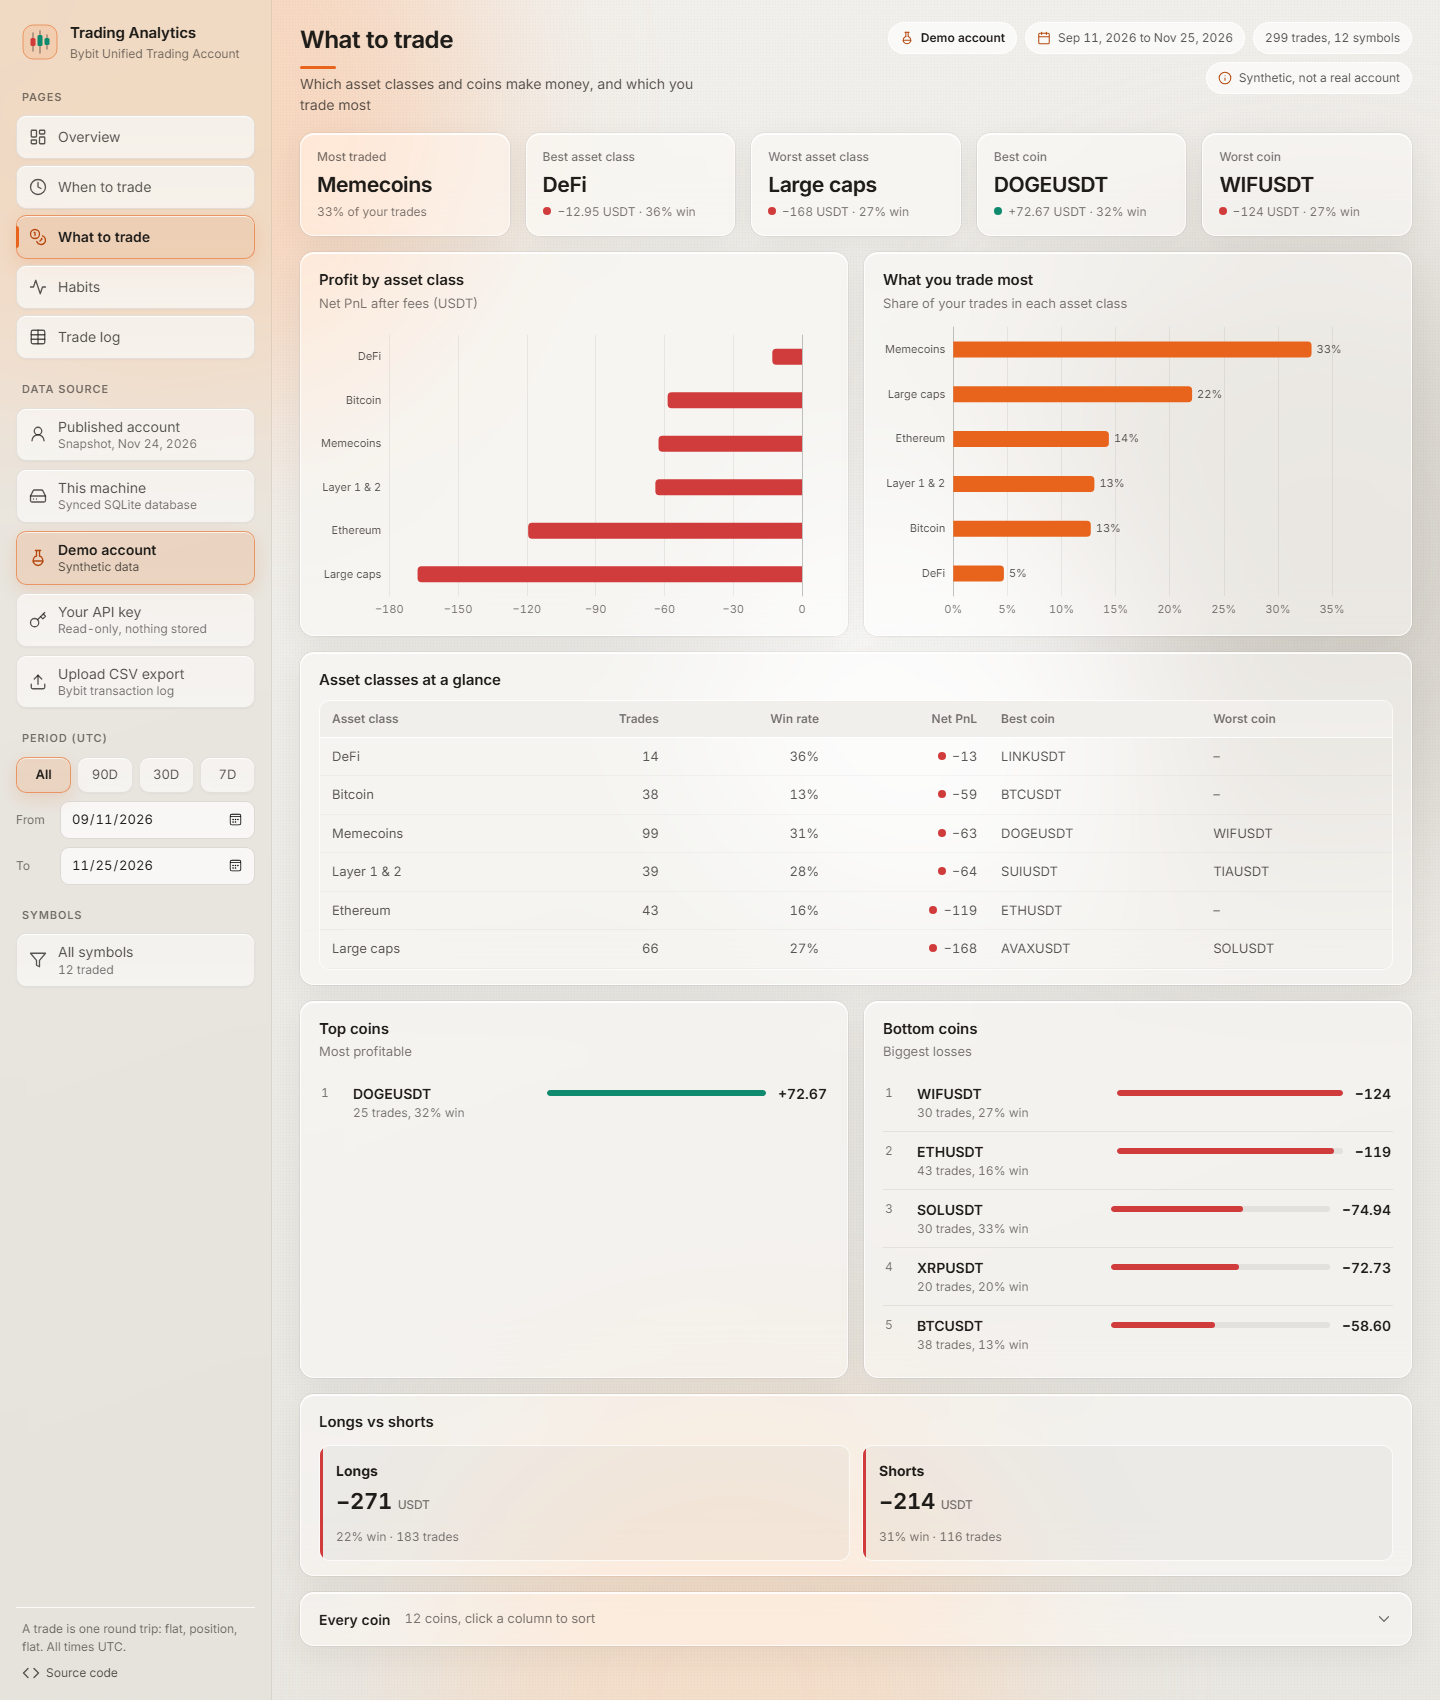
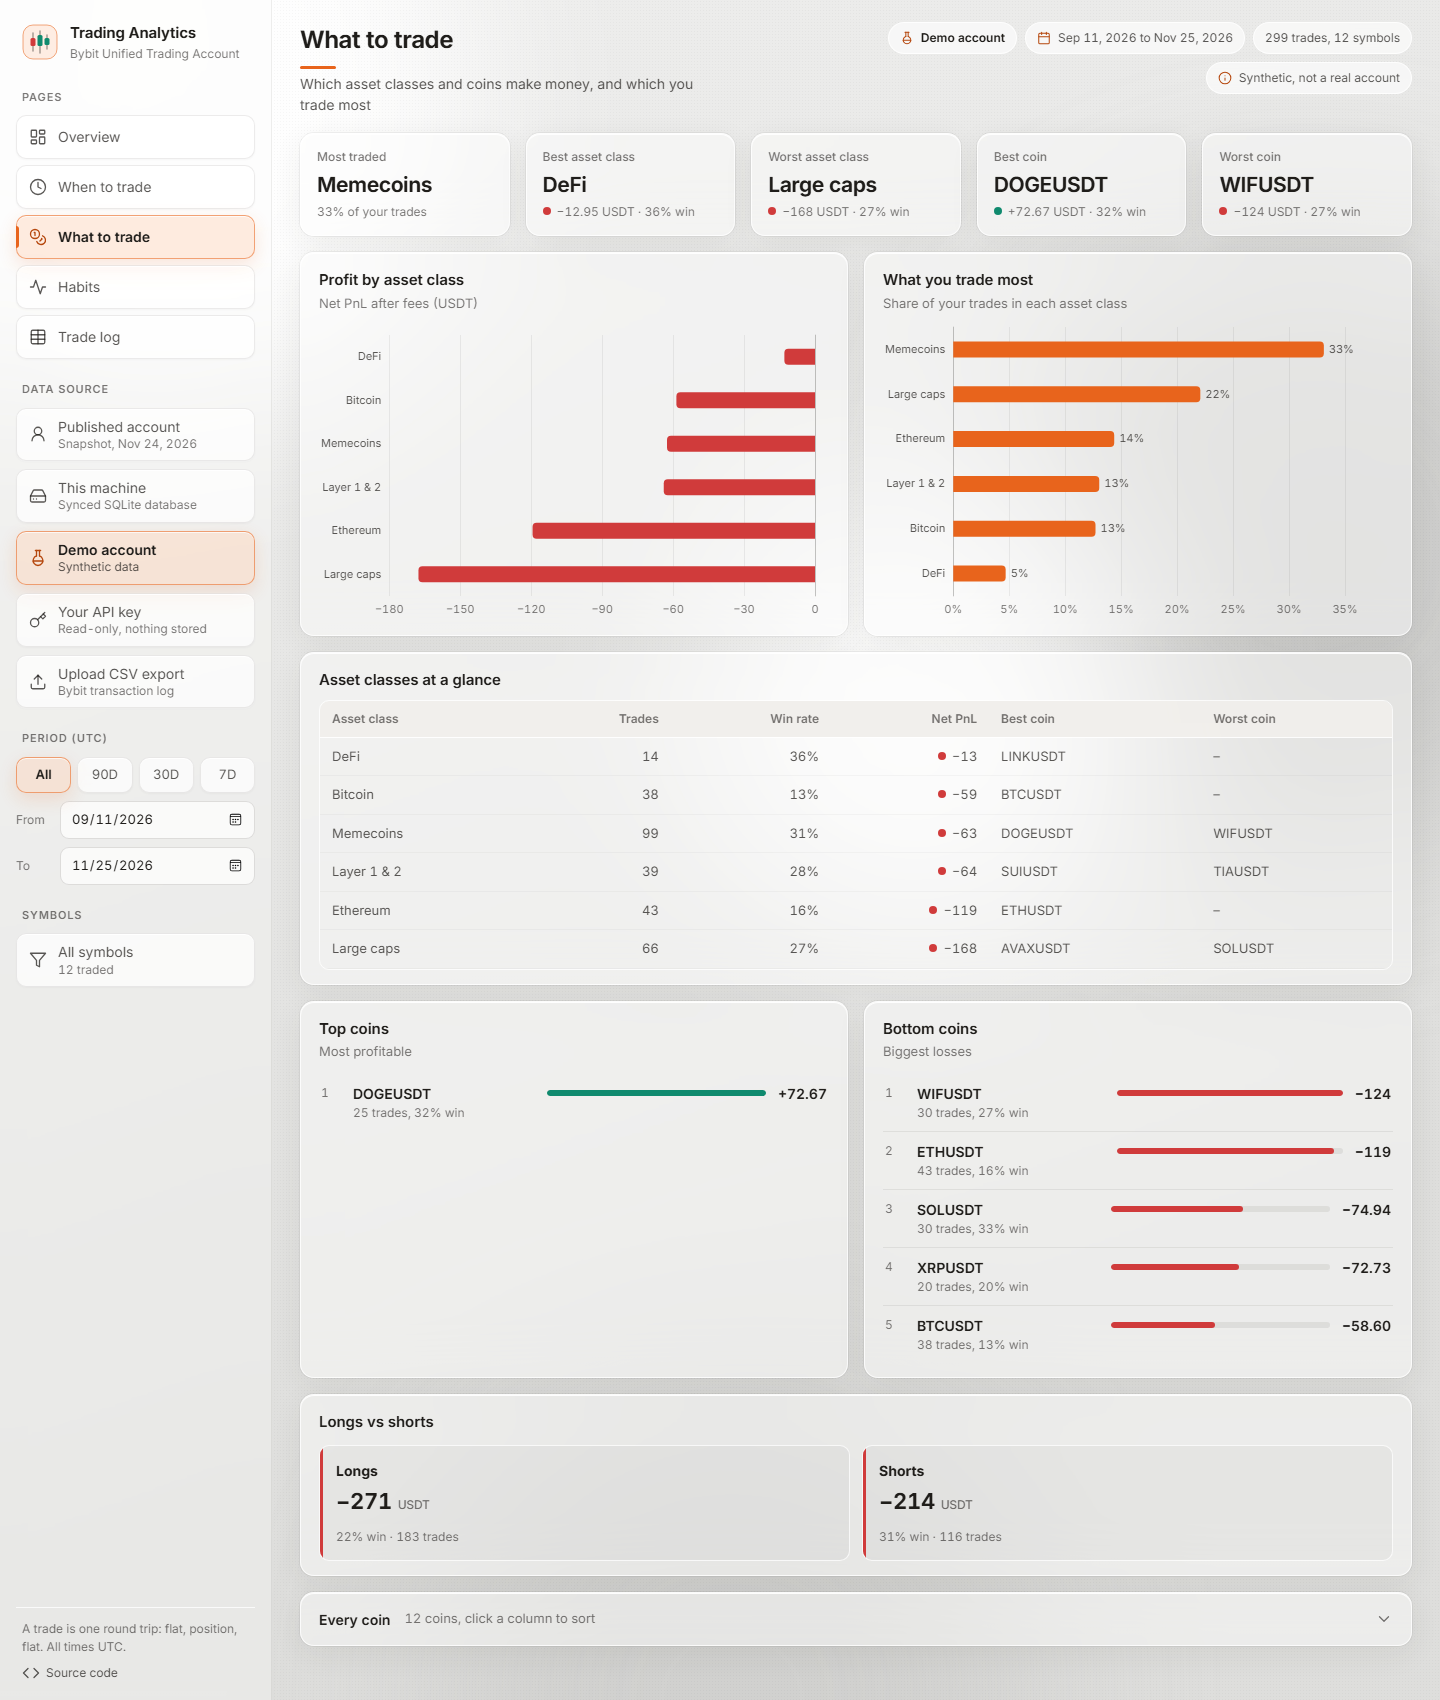
Colourless frosted-glass backdrop
Replace the tinted background glows with neutral white and grey ones, so the
glass panels blur a colourless backdrop. Orange stays as the accent only.

diff --git a/public/assets/styles.css b/public/assets/styles.css
@@ -2,14 +2,14 @@
 :root {
   color-scheme: light;
   /* surfaces: off-white page, light-grey frosted glass */
-  --bg-0: #f3f1ed;
-  --bg-1: #e9e7e2;
+  --bg-0: #efefee;
+  --bg-1: #dededc;
   --glass: rgba(255, 255, 255, 0.46);
   --glass-2: rgba(255, 255, 255, 0.62);
   --glass-border: rgba(255, 255, 255, 0.78);
   --glass-border-2: rgba(40, 36, 30, 0.14);
   --glass-highlight: inset 0 1px 0 rgba(255, 255, 255, 0.9), 0 0 0 1px rgba(40, 36, 30, 0.06);
-  --pane: rgba(226, 223, 218, 0.5);
+  --pane: rgba(255, 255, 255, 0.32);
   --sub: rgba(40, 36, 30, 0.035);
   --line: rgba(40, 36, 30, 0.08);
   /* option-pane buttons: same glass, denser than the pane */
@@ -64,10 +64,10 @@ svg.i { width: 18px; height: 18px; flex: none; fill: none; stroke: currentColor;
 /* ---------------------------------------------------------- backdrop */
 .backdrop { position: fixed; inset: 0; z-index: -1; overflow: hidden; pointer-events: none; }
 .orb { position: absolute; border-radius: 50%; filter: blur(90px); }
-.orb.o1 { width: 640px; height: 640px; left: -160px; top: -220px; background: #ffb07a; opacity: 0.38; }
-.orb.o2 { width: 620px; height: 620px; right: -180px; top: 14%; background: #cfcac2; opacity: 0.7; }
-.orb.o3 { width: 600px; height: 600px; left: 30%; bottom: -300px; background: #ffd2ad; opacity: 0.45; }
-.orb.o4 { width: 460px; height: 460px; left: 48%; top: 28%; background: #ffffff; opacity: 0.8; }
+.orb.o1 { width: 640px; height: 640px; left: -160px; top: -220px; background: #ffffff; opacity: 0.95; }
+.orb.o2 { width: 620px; height: 620px; right: -180px; top: 14%; background: #b9b9b7; opacity: 0.55; }
+.orb.o3 { width: 600px; height: 600px; left: 30%; bottom: -300px; background: #c8c8c6; opacity: 0.6; }
+.orb.o4 { width: 460px; height: 460px; left: 48%; top: 28%; background: #ffffff; opacity: 0.85; }
 .backdrop::after { content: ""; position: absolute; inset: 0;
   background-image: radial-gradient(rgba(40,36,30,0.035) 1px, transparent 1px);
   background-size: 3px 3px; }

diff --git a/public/index.html b/public/index.html
@@ -9,7 +9,7 @@
   <link rel="preconnect" href="https://fonts.googleapis.com">
   <link rel="preconnect" href="https://fonts.gstatic.com" crossorigin>
   <link rel="stylesheet" href="https://fonts.googleapis.com/css2?family=Inter:wght@400;500;600;650;700&display=swap">
-  <link rel="stylesheet" href="assets/styles.css?v=0.4.0">
+  <link rel="stylesheet" href="assets/styles.css?v=0.4.1">
 </head>
 <body>
   <a class="skip" href="#main">Skip to content</a>
@@ -120,6 +120,6 @@
   <input type="file" id="csvInput" accept=".csv,text/csv" hidden>
 
   <script src="https://cdnjs.cloudflare.com/ajax/libs/echarts/5.5.0/echarts.min.js"></script>
-  <script src="assets/app.js?v=0.4.0" type="module"></script>
+  <script src="assets/app.js?v=0.4.1" type="module"></script>
 </body>
 </html>
